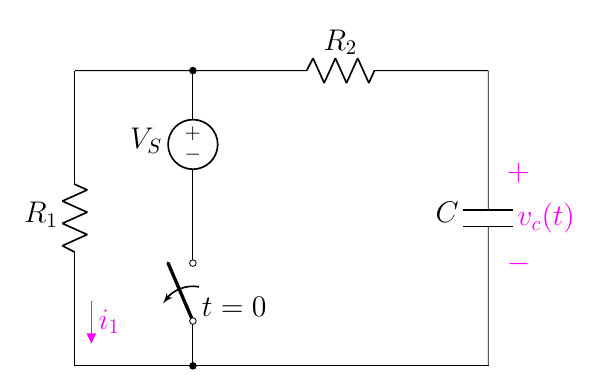
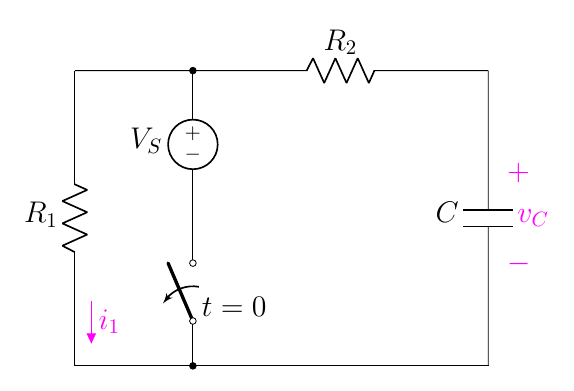
8.21

diff --git a/2.2 Source-Free RC/8.3 The Source-Free RC Circuit/8.21(new).tex b/2.2 Source-Free RC/8.3 The Source-Free RC Circuit/8.21(new).tex
@@ -26,7 +26,7 @@
     %%% find %%%
     \node at(2.7,1) []{$t=0$};
     \draw[magenta](7.2,1.5)
-        to[open,v>=$v_c(t)$] ++(0,2);
+        to[open,v>=$v_C$] ++(0,2);
 
     \draw[circuitikz/current arrow color=magenta](0,0.1)
         to[open,f<_=$\color{magenta}{i_1}$] ++(0,3);

diff --git a/2.2 Source-Free RC/8.3 The Source-Free RC Circuit/8.24(new).tex b/2.2 Source-Free RC/8.3 The Source-Free RC Circuit/8.24(new).tex
@@ -30,7 +30,7 @@
     %%% find %%%
     \node at(1.3,3) []{$t=0$};
     \draw[magenta](8.2,1)
-        to[open,v>=$v_c(t)$] ++(0,2);
+        to[open,v>=$v_C$] ++(0,2);
 
     \draw[circuitikz/current arrow color=magenta](4,0.1)
         to[open,f<_=$\color{magenta}{i}$] ++(0,3);

diff --git a/2.2 Source-Free RC/8.3 The Source-Free RC Circuit/8.37(new).tex b/2.2 Source-Free RC/8.3 The Source-Free RC Circuit/8.37(new).tex
@@ -35,7 +35,7 @@
     %%% find %%%
     \node at(11.8,3.5) []{$t=0$};
     \draw[magenta](4.2,1)
-        to[open,v>=$v_c(t)$] ++(0,2);
+        to[open,v>=$v_C$] ++(0,2);
 
 \end{circuitikz}
 \end{document}

diff --git a/2.2 Source-Free RC/8.3 The Source-Free RC Circuit/8.23(new).tex b/2.2 Source-Free RC/8.3 The Source-Free RC Circuit/8.23(new).tex
@@ -30,7 +30,7 @@
     %%% find %%%
     \node at(4,4.8) []{$t=0$};
     \draw[magenta](4.2,0.9)
-        to[open,v>=$v_c(t)$] ++(0,2);
+        to[open,v>=$v_C$] ++(0,2);
 
 \end{circuitikz}
 \end{document}
